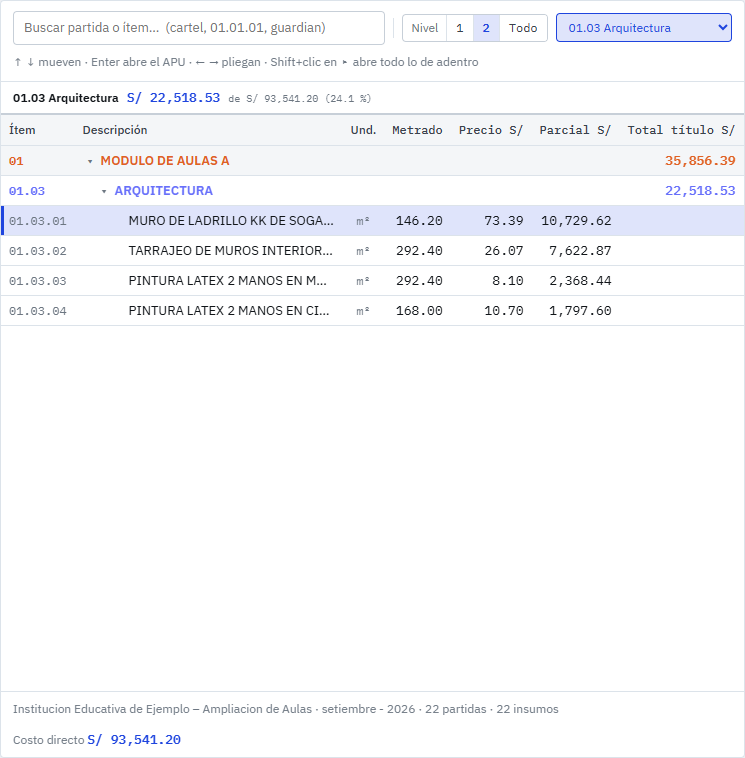
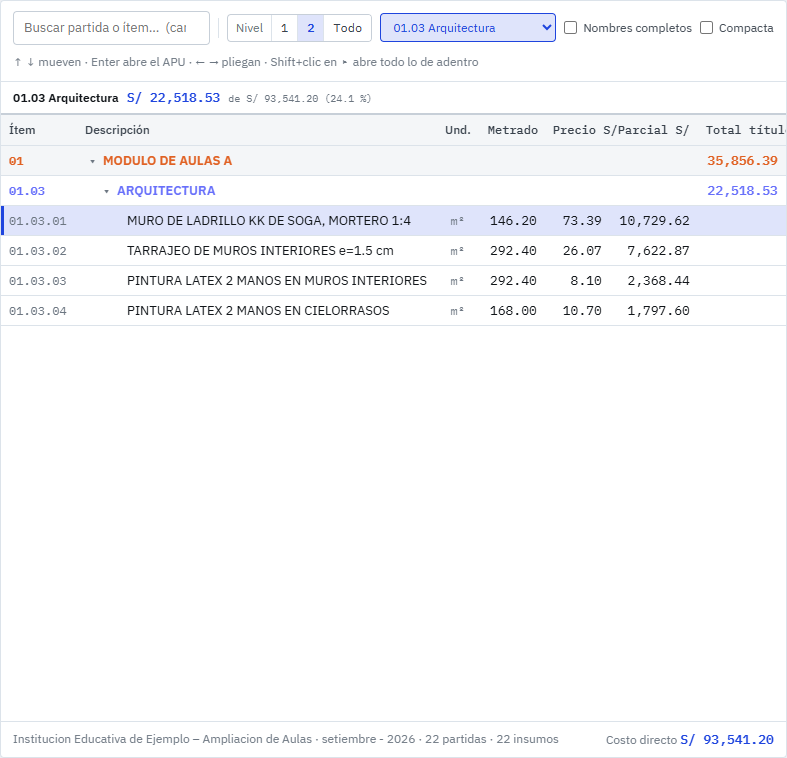
Presupuestos con muchos niveles: sangría corta, anchos según los datos, nombres completos, vista compacta, divisor arrastrable y celular con el ítem sobre el nombre

diff --git a/index.html b/index.html
@@ -93,14 +93,18 @@ button{font:inherit;cursor:pointer}
 .aviso-guardado{max-width:1720px;margin:8px auto 0;padding:0 16px;font-size:var(--t-aux);color:var(--ambar)}
 
 /* ── tablero: presupuesto a la izquierda, APU a la derecha ── */
-.tablero{display:grid;grid-template-columns:minmax(0,1.15fr) minmax(0,1fr);gap:16px;padding:16px;max-width:1720px;margin:0 auto;align-items:start}
+.tablero{display:grid;grid-template-columns:minmax(360px,var(--izq,1.3fr)) 12px minmax(360px,1fr);gap:2px;padding:16px;max-width:1720px;margin:0 auto;align-items:start}
+.divisor{position:sticky;top:16px;height:calc(100vh - var(--sobre-pres, 56px) - 32px);cursor:col-resize;display:grid;place-items:center;border-radius:var(--radio);touch-action:none}
+.divisor::after{content:"";width:4px;height:48px;border-radius:999px;background:var(--linea-fuerte)}
+.divisor:hover::after,.divisor.arrastrando::after{background:var(--azul);height:96px}
+body.arrastrando{cursor:col-resize;user-select:none}
 .panel{background:var(--superficie);border:1px solid var(--linea);border-radius:var(--radio);min-width:0}
 
 /* ─ presupuesto (como la ventana de VidBIM Costos) ─ */
 .pres{position:sticky;top:16px;height:calc(100vh - var(--sobre-pres, 56px) - 32px);min-height:420px;max-height:calc(100vh - 32px);display:flex;flex-direction:column}
 .pres .herr{display:flex;gap:8px;align-items:center;padding:10px 12px;border-bottom:1px solid var(--linea);flex-wrap:wrap}
-.pres input{flex:1;min-width:180px;border:1px solid var(--linea-fuerte);border-radius:var(--radio);padding:6px 10px;background:var(--superficie);color:var(--tinta);font:inherit;font-size:var(--t-tabla)}
-.pres input:focus{outline:2px solid var(--azul);outline-offset:-1px}
+.pres input[type=search]{flex:1;min-width:180px;border:1px solid var(--linea-fuerte);border-radius:var(--radio);padding:6px 10px;background:var(--superficie);color:var(--tinta);font:inherit;font-size:var(--t-tabla)}
+.pres input[type=search]:focus{outline:2px solid var(--azul);outline-offset:-1px}
 .pres .herr .sep{width:1px;height:20px;background:var(--linea)}
 .niveles{display:inline-flex;align-items:center;border:1px solid var(--linea-fuerte);border-radius:var(--radio);overflow:hidden;font-size:var(--t-aux)}
 .niveles span{padding:0 8px;color:var(--gris)}
@@ -114,7 +118,9 @@ button{font:inherit;cursor:pointer}
 .cdfija .de{font-weight:600;color:var(--tinta)}
 .cdfija small{color:var(--gris);font-family:var(--f-datos)}
 .pres .scroll{overflow:auto;flex:1;min-height:0}
-table.grilla{width:100%;border-collapse:collapse;font-size:var(--t-tabla)}
+table.grilla{width:100%;border-collapse:collapse;font-size:var(--t-tabla);table-layout:fixed}
+.grilla col.c-und{width:52px}.grilla col.c-met{width:88px}.grilla col.c-pre{width:92px}.grilla col.c-par{width:104px}.grilla col.c-tot{width:118px}
+.grilla td.it{overflow:hidden;text-overflow:ellipsis}
 .grilla thead{position:sticky;top:0;z-index:2}
 .grilla th{background:var(--superficie-2);font-size:var(--t-aux);font-weight:500;color:var(--tinta-2);text-align:left;padding:6px 8px;border-bottom:1px solid var(--linea);white-space:nowrap;z-index:1}
 .grilla th.num{text-align:right}
@@ -129,14 +135,21 @@ table.grilla{width:100%;border-collapse:collapse;font-size:var(--t-tabla)}
 .grilla tr.n1 td{background:var(--superficie-2)}
 .grilla tr.n1{--c:var(--nivel-1)}.grilla tr.n2{--c:var(--nivel-2)}.grilla tr.n3{--c:var(--nivel-3)}.grilla tr.n4{--c:var(--nivel-4)}
 .grilla tr.n5{--c:var(--nivel-5)}.grilla tr.n6{--c:var(--nivel-6)}.grilla tr.n7{--c:var(--nivel-7)}
-.grilla td.de{padding-left:calc(8px + var(--n,0)*14px)}
+.grilla td.de{padding-left:calc(8px + var(--ind,0px))}
 .grilla .pl{display:inline-block;width:14px;color:var(--gris);font-size:10px;text-align:center;margin-right:4px}
-.grilla tr.p td.de{padding-left:calc(8px + var(--n,0)*14px + 18px)}
+.grilla tr.p td.de{padding-left:calc(8px + var(--ind,0px) + 14px)}
+.grilla.completos td{white-space:normal;vertical-align:top;height:auto;padding-top:6px;padding-bottom:6px}
+.grilla.completos td.de{overflow:visible;text-overflow:clip;line-height:1.35}
+.grilla.completos td.num,.grilla.completos td.it,.grilla.completos td.un{white-space:nowrap}
+.grilla.compacta .oc{display:none}
+.interruptor{display:inline-flex;align-items:center;gap:6px;font-size:var(--t-aux);color:var(--tinta-2);cursor:pointer;white-space:nowrap}
+.interruptor input{margin:0}
 .grilla tr.sel td{background:var(--azul-tinte)}
 .grilla tr.sel td:first-child{box-shadow:inset 3px 0 0 var(--azul)}
 .grilla tr.oculta{display:none}
 .grilla tr.sinapu td.de{color:var(--rojo)}
 .grilla .corto{display:none}
+.grilla .solo-cel{display:none}
 .grilla mark{background:var(--ambar-tinte);color:inherit;padding:0}
 .pres .pie{border-top:1px solid var(--linea);padding:8px 12px;display:flex;justify-content:space-between;gap:12px;font-size:var(--t-aux);color:var(--gris);flex-wrap:wrap}
 .pres .pie b{color:var(--azul);font-family:var(--f-datos);font-weight:600;font-size:var(--t-tabla)}
@@ -266,7 +279,8 @@ footer.pie{max-width:1720px;margin:0 auto;padding:8px 16px 32px;font-size:var(--
 
 /* ── ancho medio: apilado como la ventana de la app (presupuesto arriba, APU abajo) ── */
 @media (max-width:1100px){
-  .tablero{grid-template-columns:1fr}
+  .tablero{grid-template-columns:1fr;gap:16px}
+  .divisor{display:none}
   .pres{position:static;height:auto;max-height:none}
   .pres .scroll{height:46vh;flex:none}
 }
@@ -286,13 +300,18 @@ footer.pie{max-width:1720px;margin:0 auto;padding:8px 16px 32px;font-size:var(--
   .pestanas .pe{max-width:220px}
   .pres .ayuda{display:none}
   .frente{max-width:100%;flex:1}
-  .pres input{min-width:0;flex-basis:100%}
+  .pres input[type=search]{min-width:0;flex-basis:100%}
   .grilla{table-layout:fixed}
   .grilla .oc{display:none}
-  .grilla col.c-it{width:74px}.grilla col.c-par{width:78px}.grilla col.c-tot{width:96px}
+  .grilla col.c-it,.grilla col.c-tot{display:none}.grilla td.it,.grilla td:last-child,.grilla th:first-child,.grilla th:last-child{display:none}
+  .grilla col.c-par{width:104px!important}
+  .grilla .solo-cel{display:inline}
+  .grilla td.de::before{content:attr(data-it);display:block;font-family:var(--f-datos);font-size:10px;font-weight:400;color:var(--gris)}
+  .grilla td{height:auto;padding-top:5px;padding-bottom:5px}
   .grilla th,.grilla td{padding-left:4px;padding-right:4px}
-  .grilla td.de{padding-left:calc(4px + var(--n,0)*8px)}
-  .grilla tr.p td.de{padding-left:calc(4px + var(--n,0)*8px + 12px)}
+  .grilla td.de{padding-left:calc(4px + var(--ind,0px) * .35)}
+  .grilla tr.p td.de{padding-left:calc(4px + var(--ind,0px) * .35 + 12px)}
+  .interruptor.solo-ancho{display:none}
   .grilla .pl{width:10px;margin-right:2px}
   .grilla td.it{font-size:10px;overflow:hidden;text-overflow:ellipsis}
   .grilla td.num{font-size:var(--t-aux)}
@@ -395,13 +414,15 @@ footer.pie{max-width:1720px;margin:0 auto;padding:8px 16px 32px;font-size:var(--
       <span class="sep"></span>
       <div class="niveles" id="niveles" role="group" aria-label="Abrir hasta el nivel"></div>
       <select class="frente" id="frente" aria-label="Frente de trabajo"><option value="">Frente: todos</option></select>
+      <label class="interruptor" title="La descripción usa 2 o 3 renglones en vez de cortarse con «…»"><input type="checkbox" id="chkCompletos"> Nombres completos</label>
+      <label class="interruptor solo-ancho" title="Oculta Und., Metrado y Precio para dar más espacio a la descripción"><input type="checkbox" id="chkCompacta"> Compacta</label>
       <span class="ayuda">↑ ↓ mueven · Enter abre el APU · ← → pliegan · Shift+clic en ▸ abre todo lo de adentro</span>
     </div>
     <div class="cdfija" id="filaCd"></div>
     <div class="scroll" id="scrollPres">
       <table class="grilla" id="grilla">
-        <colgroup><col class="c-it"><col><col class="oc"><col class="oc"><col class="oc"><col class="c-par"><col class="c-tot"></colgroup>
-        <thead><tr><th>Ítem</th><th>Descripción</th><th class="oc" style="text-align:center">Und.</th><th class="num oc">Metrado</th><th class="num oc">Precio S/</th><th class="num">Parcial S/</th><th class="num"><span class="largo">Total título S/</span><span class="corto">Total S/</span></th></tr></thead>
+        <colgroup><col class="c-it" id="colItem"><col><col class="oc c-und"><col class="oc c-met"><col class="oc c-pre"><col class="c-par"><col class="c-tot"></colgroup>
+        <thead><tr><th>Ítem</th><th>Descripción</th><th class="oc" style="text-align:center">Und.</th><th class="num oc">Metrado</th><th class="num oc">Precio S/</th><th class="num">Parcial S/</th><th class="num">Total título S/</th></tr></thead>
         <tbody id="cuerpoPres"></tbody>
       </table>
       <div class="nada" id="nadaPres" hidden>Nada coincide con la búsqueda.</div>
@@ -409,6 +430,7 @@ footer.pie{max-width:1720px;margin:0 auto;padding:8px 16px 32px;font-size:var(--
     <div class="pie"><span id="pieInfo"></span><span id="pieCd"></span></div>
   </section>
 
+  <div class="divisor" id="divisor" role="separator" aria-orientation="vertical" aria-label="Arrastre para cambiar el ancho del presupuesto" title="Arrastre para ensanchar el presupuesto o el APU · doble clic: ancho normal"></div>
   <section class="panel apu" id="apu" aria-live="polite">
     <div class="vacio">Elija una partida del presupuesto para ver su APU.</div>
   </section>
@@ -718,15 +740,29 @@ function abrirTablero(p) {
   const gemelas = {};
   F.filter(f => f.esPartida).forEach(f => { const k = f.descripcion.trim().toUpperCase() + '|' + (f.unidad || '').toUpperCase(); (gemelas[k] ||= []).push(f); f.gemelas = gemelas[k]; });
 
+  // Sangría: 14 px por nivel hasta el 3 y 6 px de ahí en adelante (el color del título ya dice el nivel).
+  const ind = n => (n <= 3 ? n * 14 : 42 + (n - 3) * 4) + 'px';
+  // Ancho del ítem según el más largo del proyecto.
+  const largo = Math.max(...F.map(f => f.item.length));
+  $('#colItem').style.width = Math.round(largo * 7.3 + 18) + 'px';   // 12 px de IBM Plex Mono ≈ 7.2 px por carácter
+  // Columnas de números: tan anchas como el número más largo del proyecto (13 px de IBM Plex Mono ≈ 7.8 px por cifra).
+  const anchoDe = (xs, min) => Math.max(min, Math.round(Math.max(...xs.map(x => f2(x).length)) * 7.8 + 18)) + 'px';
+  const ps = F.filter(f => f.esPartida), ts = F.filter(f => !f.esPartida);
+  const col = c => $('#grilla').querySelector('col.' + c);
+  col('c-und').style.width = Math.max(44, Math.max(...ps.map(f => (f.unidad || '').length)) * 7.2 + 18) + 'px';
+  col('c-met').style.width = anchoDe(ps.map(f => f.metrado || 0), 64);
+  col('c-pre').style.width = anchoDe(ps.map(f => f.precio || 0), 64);
+  col('c-par').style.width = anchoDe(ps.map(f => f.parcial || 0), 72);
+  col('c-tot').style.width = anchoDe(ts.map(f => f.total || 0), 80);
   let html = '';
   F.forEach((f, i) => {
     const n = f.nivel - 1;
     if (f.esPartida) {
-      html += `<tr class="p${f.apu ? '' : ' sinapu'}" data-i="${i}" style="--n:${n}"><td class="it">${esc(f.item)}</td><td class="de" title="${esc(f.descripcion)}">${esc(f.descripcion)}</td>` +
+      html += `<tr class="p${f.apu ? '' : ' sinapu'}" data-i="${i}" style="--ind:${ind(n)}"><td class="it" title="${esc(f.item)}">${esc(f.item)}</td><td class="de" data-it="${esc(f.item)}" title="${esc(f.descripcion)}">${esc(f.descripcion)}</td>` +
         `<td class="un oc">${esc(f.unidad)}</td><td class="num oc">${f2(f.metrado)}</td><td class="num oc">${f2(f.precio)}</td><td class="num">${f2(f.parcial)}</td><td></td></tr>`;
     } else {
-      html += `<tr class="t n${Math.min(f.nivel, 7)}" data-i="${i}" style="--n:${n}"><td class="it">${esc(f.item)}</td><td class="de" title="${esc(f.descripcion)}"><span class="pl">${f.tieneHijos ? '▾' : ''}</span>${esc(f.descripcion)}</td>` +
-        `<td class="oc"></td><td class="oc"></td><td class="oc"></td><td></td><td class="num tt">${f2(f.total)}</td></tr>`;
+      html += `<tr class="t n${Math.min(f.nivel, 7)}" data-i="${i}" style="--ind:${ind(n)}"><td class="it" title="${esc(f.item)}">${esc(f.item)}</td><td class="de" data-it="${esc(f.item)}" title="${esc(f.descripcion)}"><span class="pl">${f.tieneHijos ? '▾' : ''}</span>${esc(f.descripcion)}</td>` +
+        `<td class="oc"></td><td class="oc"></td><td class="oc"></td><td class="num tt"><span class="solo-cel">${f2(f.total)}</span></td><td class="num tt">${f2(f.total)}</td></tr>`;
     }
   });
   $('#cuerpoPres').innerHTML = html;
@@ -739,6 +775,12 @@ function abrirTablero(p) {
   $('#pieCd').innerHTML = `Costo directo <b>S/ ${f2(D.cd)}</b>`;
   let vista = {}; try { vista = JSON.parse(leer('visor.vista.' + p.id) || '{}'); } catch (x) {}
   nivelVista = vista.nivel ?? null; frente = vista.frente || '';
+  // Nombres completos: por defecto encendido si el proyecto tiene más de 6 niveles.
+  const niveles = Math.max(...F.map(f => f.nivel));
+  $('#chkCompletos').checked = vista.completos ?? niveles > 6;
+  $('#chkCompacta').checked = !!vista.compacta;
+  $('#grilla').classList.toggle('completos', $('#chkCompletos').checked);
+  $('#grilla').classList.toggle('compacta', $('#chkCompacta').checked);
   $('#chipsArchivos').innerHTML = `<span class="chip" title="${esc(p.archivos.presupuesto)}">Presupuesto · ${esc(p.archivos.presupuesto)}</span><span class="chip">APU · ${D.apus.length.toLocaleString('es-PE')} partidas</span>`;
   $('#portada').hidden = true; $('#tablero').hidden = false; $('#pieTablero').hidden = false; $('#btnCambiar').hidden = false; $('#pestanas').hidden = false;
   pintarPestanas();
@@ -827,7 +869,36 @@ $('#frente').addEventListener('change', e => {
   // Si la partida elegida quedó fuera del frente, se elige la primera de adentro.
   if (sel >= 0 && !enFrente(D.filas[sel].item)) { const k = D.filas.findIndex(f => f.esPartida && enFrente(f.item)); if (k >= 0) seleccionar(k); }
 });
-function guardarVista() { if (activo) guardar('visor.vista.' + activo, JSON.stringify({ nivel: nivelVista, frente })); }
+function guardarVista() { if (activo) guardar('visor.vista.' + activo, JSON.stringify({ nivel: nivelVista, frente, completos: $('#chkCompletos').checked, compacta: $('#chkCompacta').checked })); }
+$('#chkCompletos').addEventListener('change', e => { $('#grilla').classList.toggle('completos', e.target.checked); guardarVista(); if (sel >= 0) filasDom[sel].scrollIntoView({ block: 'nearest' }); });
+$('#chkCompacta').addEventListener('change', e => { $('#grilla').classList.toggle('compacta', e.target.checked); guardarVista(); });
+
+// ── divisor: arrastrar para repartir el ancho entre presupuesto y APU (se recuerda) ──
+(() => {
+  const div = $('#divisor'), tab = $('#tablero');
+  const poner = px => { if (px) tab.style.setProperty('--izq', px + 'px'); else tab.style.removeProperty('--izq'); };
+  { const g = +leer('visor.izq'); if (g > 0) poner(g); }
+  let x0 = 0, w0 = 0;
+  div.addEventListener('pointerdown', e => {
+    x0 = e.clientX; w0 = $('.pres').getBoundingClientRect().width;
+    div.setPointerCapture(e.pointerId); div.classList.add('arrastrando'); document.body.classList.add('arrastrando');
+  });
+  div.addEventListener('pointermove', e => {
+    if (!div.classList.contains('arrastrando')) return;
+    const total = tab.getBoundingClientRect().width - 32 - 14;
+    poner(Math.round(Math.max(360, Math.min(total - 360, w0 + e.clientX - x0))));
+  });
+  const soltar = () => { if (!div.classList.contains('arrastrando')) return; div.classList.remove('arrastrando'); document.body.classList.remove('arrastrando');
+    guardar('visor.izq', String(Math.round($('.pres').getBoundingClientRect().width))); };
+  div.addEventListener('pointerup', soltar); div.addEventListener('pointercancel', soltar);
+  div.addEventListener('dblclick', () => { poner(0); guardar('visor.izq', ''); });
+  div.addEventListener('keydown', e => {
+    if (e.key !== 'ArrowLeft' && e.key !== 'ArrowRight') return;
+    const w = $('.pres').getBoundingClientRect().width + (e.key === 'ArrowRight' ? 40 : -40);
+    poner(Math.max(360, w)); guardar('visor.izq', String(Math.round(w))); e.preventDefault();
+  });
+  div.tabIndex = 0;
+})();
 function pintarCd() {
   const t = frente ? D.filas[porItemFila[frente]] : null;
   $('#filaCd').innerHTML = t
@@ -888,7 +959,7 @@ $('#cuerpoPres').addEventListener('click', e => {
 $('#cuerpoPres').addEventListener('dblclick', e => { const tr = e.target.closest('tr'); if (tr) plegar(+tr.dataset.i, !plegados.has(+tr.dataset.i)); });
 document.addEventListener('keydown', e => {
   if (e.key === 'Escape') { cerrar(); return; }
-  if ($('#tablero').hidden || e.target.tagName === 'INPUT' || sel < 0) return;
+  if ($('#tablero').hidden || e.target.tagName === 'INPUT' || e.target.tagName === 'SELECT' || e.target.id === 'divisor' || sel < 0) return;
   if ($('.cajon.abierto')) return;
   const vis = filasDom.map((tr, i) => i).filter(i => !filasDom[i].classList.contains('oculta'));
   const k = vis.indexOf(sel);

diff --git a/manual.html b/manual.html
@@ -120,6 +120,9 @@ footer{max-width:880px;margin:0 auto;padding:0 16px 32px;font-size:var(--t-aux);
       <li><b>Buscar:</b> escriba parte del nombre o del ítem (<code>pintura latex</code>, <code>01.03</code>); filtra al instante.</li>
       <li><b>Nivel 1 2 3 … Todo:</b> como los botones de agrupar de Excel. <b>1</b> deja solo los títulos principales, <b>2</b> agrega los de segundo nivel, <b>3</b> los del tercero, y <b>Todo</b> abre todas las partidas.</li>
       <li><b>Frente:</b> elija un frente de trabajo (un título de segundo nivel) para ver solo esa rama. Arriba sale su total y qué parte es del costo directo. Se combina con la búsqueda: «pintura» dentro de un solo frente.</li>
+      <li><b>Nombres completos:</b> la descripción usa 2 o 3 renglones en vez de cortarse con «…». Viene encendido en presupuestos con muchos niveles de títulos.</li>
+      <li><b>Compacta:</b> oculta Und., Metrado y Precio para dar más espacio a la descripción.</li>
+      <li><b>Ancho:</b> arrastre la barra entre el presupuesto y el APU para ensanchar uno u otro; doble clic la devuelve al ancho normal. El visor lo recuerda.</li>
       <li><b>Plegar:</b> clic en el triángulo de un título. Con <kbd>Shift</kbd>+clic se abre (o se cierra) el título con todo lo que tiene adentro.</li>
       <li><b>Teclado:</b> <kbd>↑</kbd> <kbd>↓</kbd> pasan de fila, <kbd>←</kbd> <kbd>→</kbd> pliegan o suben al título, <kbd>Enter</kbd> lleva al APU.</li>
     </ul>
